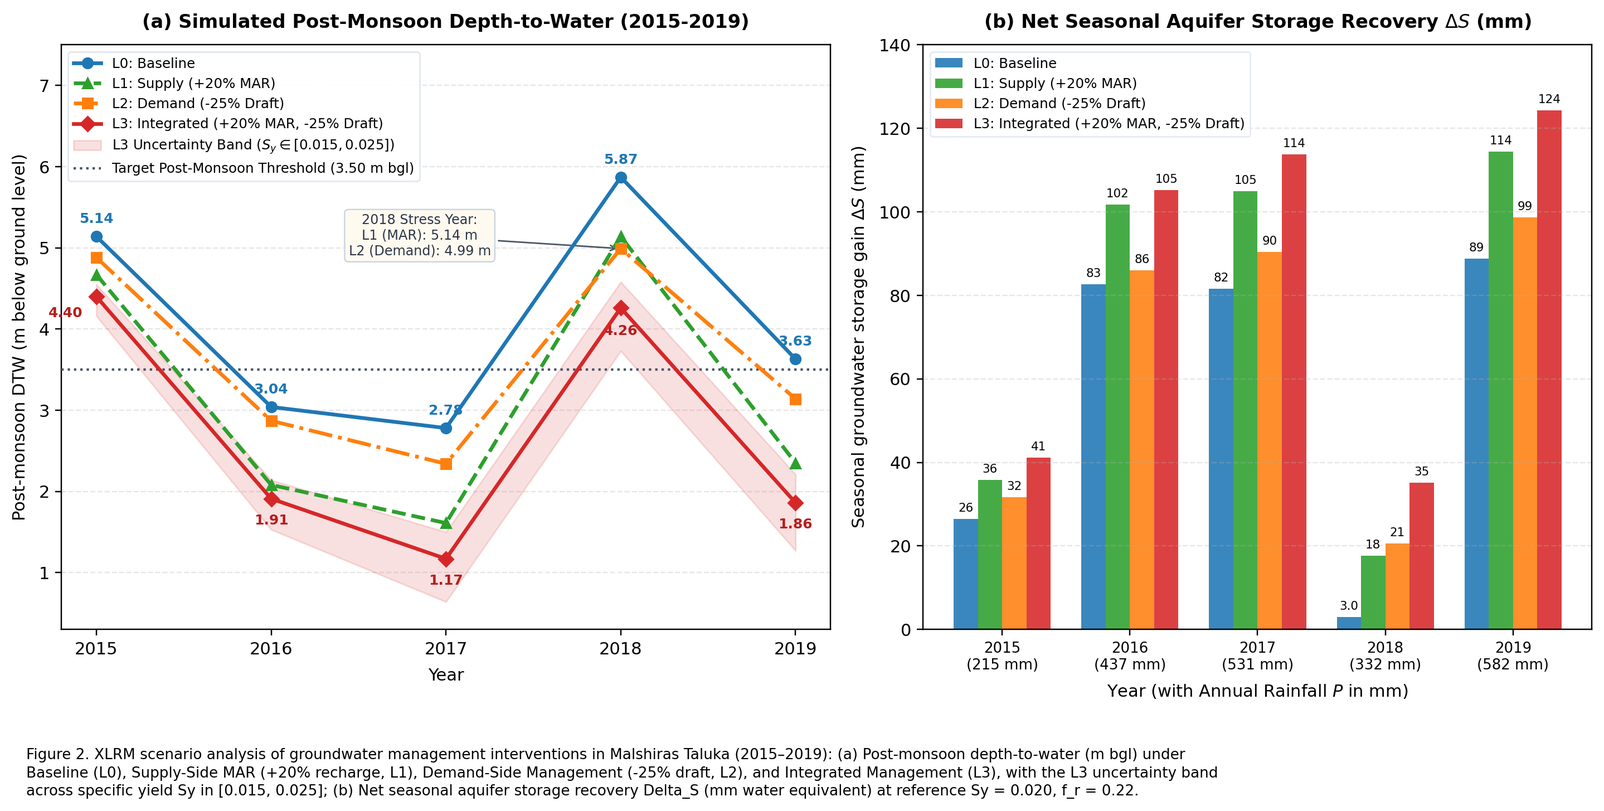
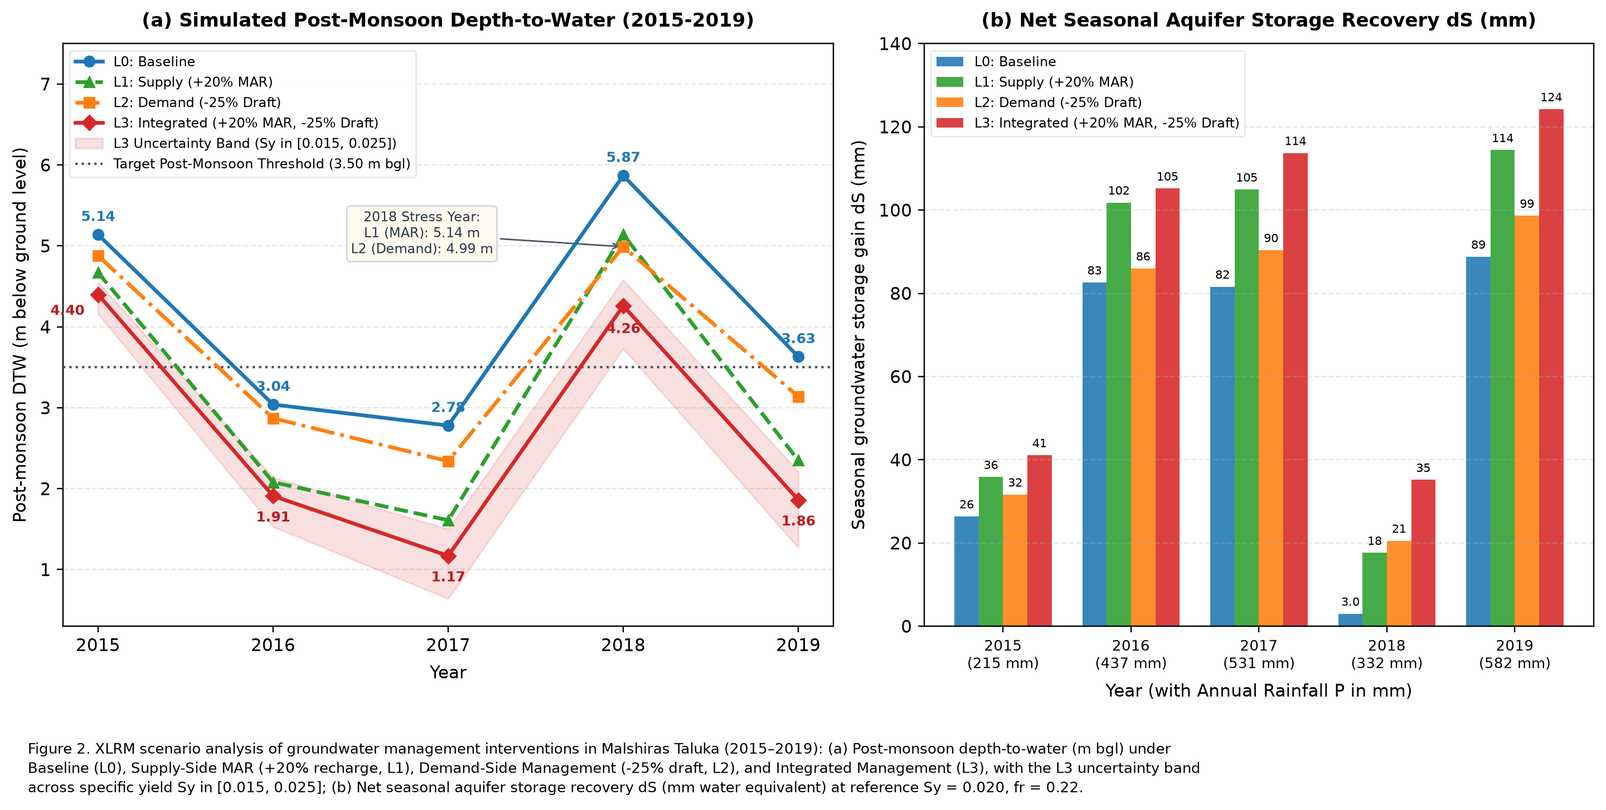
Format final submission PDF and figures with clean uppercase/lowercase notation without underscores

diff --git a/generate_final_submission_docs.py b/generate_final_submission_docs.py
@@ -1,4 +1,4 @@
-"""Generate the CE766 Final Project Submission text, word-count checks, and PDF guide."""
+"""Generate the CE766 Final Project Submission text, word-count checks, and clean PDF guide (no underscores)."""
 from __future__ import annotations
 
 from pathlib import Path
@@ -6,7 +6,7 @@ from reportlab.lib.pagesizes import letter
 from reportlab.lib import colors
 from reportlab.lib.styles import getSampleStyleSheet, ParagraphStyle
 from reportlab.platypus import (
-    SimpleDocTemplate, Paragraph, Spacer, HRFlowable, Table, TableStyle, PageBreak, KeepTogether
+    SimpleDocTemplate, Paragraph, Spacer, HRFlowable, Table, TableStyle, KeepTogether
 )
 from reportlab.pdfgen import canvas
 
@@ -17,18 +17,18 @@ TXT_OUT = FINAL_DIR / "CE766_Final_Submission_Text.txt"
 MD_OUT = FINAL_DIR / "README_FINAL_SUBMISSION.md"
 
 # ---------------------------------------------------------------------------
-# EXACT MOODLE SUBMISSION TEXT SECTIONS (Strictly within Moodle word limits)
+# CLEAN MOODLE SUBMISSION TEXT (No underscores in prose or equations!)
 # ---------------------------------------------------------------------------
 
 SECTION_1_PROBLEM = (
     "Malshiras Taluka in Solapur District, Maharashtra, lies within a semi-arid, drought-prone "
     "hard-rock basalt zone of the Bhima River basin. Over the 2015–2019 analysis period, intensive "
     "groundwater extraction for perennial cash crops (predominantly sugarcane and horticulture), "
-    "combined with erratic monsoon rainfall (215.29–582.30 mm/year), produced severe pre-monsoon "
+    "combined with erratic monsoon rainfall (215.29 to 582.30 mm/year), produced severe pre-monsoon "
     "water-table depletion and acute vulnerability to mid-season dry spells. Crucially, moderate "
     "rainfall does not guarantee aquifer recovery: in 2018 (332.50 mm rainfall), the mean water "
     "table rose by only 0.15 m (from 6.02 to 5.87 m below ground level, m bgl), compared to a "
-    "1.32 m rise in 2015 under lower rainfall (215.29 mm). "
+    "1.32 m rise in 2015 under lower rainfall (215.29 mm)."
     "\n\n"
     "For watershed management and decision-making under the Atal Bhujal Yojana (ABY), key "
     "stakeholders—including Gram Panchayats, Water User Associations (WUAs), local farmers, the "
@@ -51,40 +51,39 @@ SECTION_2_DATA = (
     "(14 monitored by SGWD/GSDA and 8 by CGWB), aggregated to a lumped taluka-scale mean. "
     "Temporally, readings have a semi-annual seasonal resolution—pre-monsoon (May) and "
     "post-monsoon (October/November). Missing well records were retained as null values rather "
-    "than zero, yielding n = 19–20 valid wells in May and n = 20–21 in October/November. "
+    "than zero, yielding n = 19 to 20 valid wells in May and n = 20 to 21 in October/November. "
     "Annual taluka-scale rainfall totals (mm/year) for 2015–2019 were compiled from official "
     "Solapur District Administration records. Unconfined Deccan Trap basalt specific yield "
-    "(Sy in [0.015, 0.025], reference 0.020) and monsoon recharge factor (f_r = 0.22) bounds "
+    "(Sy from 0.015 to 0.025, reference 0.020) and monsoon recharge factor (fr = 0.22) bounds "
     "were taken from CGWB GEC-2015 norms."
 )
 
 SECTION_3_METHODOLOGY = (
     "We formulate the Malshiras Taluka groundwater management problem using the XLRM framework, "
-    "grounded in the Water Table Fluctuation (WTF) method (Healy & Cook, 2002; CGWB GEC-2015):\n\n"
-    "1. Uncertainties (X): (i) Hydroclimatic variability across observed annual rainfall P_t in "
+    "grounded in the Water Table Fluctuation (WTF) method (Healy and Cook, 2002; CGWB GEC-2015):\n\n"
+    "1. Uncertainties (X): (i) Hydroclimatic variability across observed annual rainfall P in "
     "{215.29, 436.70, 530.52, 332.50, 582.30} mm (2015–2019); and (ii) unconfined fractured basalt "
     "specific yield Sy in {0.015, 0.020, 0.025} (dimensionless; reference Sy = 0.020, with gross "
-    "monsoon recharge factor f_r = 0.22 capturing rainfall infiltration and canal/surface seepage).\n\n"
+    "monsoon recharge factor fr = 0.22 capturing rainfall infiltration and canal or surface seepage).\n\n"
     "2. Policy Levers (L): Four scenarios parameterized by supply-side MAR recharge enhancement "
-    "(alpha_MAR) and demand-side monsoon draft reduction (beta_dem): "
-    "L0 (Baseline BAU: alpha_MAR = 0, beta_dem = 0); "
-    "L1 (Supply-Side MAR via check dams/percolation tanks: alpha_MAR = 0.20, beta_dem = 0); "
-    "L2 (Demand-Side Management via drip irrigation/crop shift: alpha_MAR = 0, beta_dem = 0.25); "
-    "and L3 (Integrated Management: alpha_MAR = 0.20, beta_dem = 0.25).\n\n"
-    "3. Relationships (R) - Main Plain-Text Equations (Healy & Cook, 2002; CGWB, 2017):\n"
-    "Mean_DTW(t, s) = (1 / n_t,s) * sum(DTW_i,t,s)\n"
-    "Delta_h_obs(t) = Mean_DTW_May(t) - Mean_DTW_OctNov(t)\n"
-    "Delta_S_obs(t) = Sy * Delta_h_obs(t) * 1000 = R_base(t) - D_base(t)\n"
-    "Delta_h_sim(t) = [ (1 + alpha_MAR) * R_base(t) - (1 - beta_dem) * D_base(t) ] / (1000 * Sy)\n"
-    "DTW_OctNov_sim(t) = Mean_DTW_May(t) - Delta_h_sim(t)\n\n"
-    "Term Definitions: t is year (2015–2019); s is season (May or Oct/Nov); DTW_i,t,s is depth-to-water "
-    "at well i (m bgl); n_t,s is valid well count; Delta_h_obs(t) and Delta_h_sim(t) are observed and "
-    "simulated seasonal water-table rises (m); Delta_S_obs(t) is net seasonal aquifer storage change "
-    "(mm water equivalent); R_base(t) = f_r * P_t is baseline gross monsoon recharge (mm); D_base(t) is "
-    "implied baseline seasonal net draft/discharge (mm); and DTW_OctNov_sim(t) is simulated post-monsoon "
-    "DTW (m bgl).\n\n"
-    "4. Measures (M): (M1) Simulated post-monsoon DTW (DTW_OctNov_sim, m bgl, compared against a 3.50 m "
-    "bgl sustainability threshold); (M2) net seasonal storage recovery Delta_S_sim (mm); and (M3) dry-year "
+    "(a) and demand-side monsoon draft reduction (b): "
+    "L0 (Baseline BAU: a = 0, b = 0); "
+    "L1 (Supply-Side MAR via check dams and percolation tanks: a = 0.20, b = 0); "
+    "L2 (Demand-Side Management via drip irrigation and crop shift: a = 0, b = 0.25); "
+    "and L3 (Integrated Management: a = 0.20, b = 0.25).\n\n"
+    "3. Relationships (R) and Main Plain-Text Equations (Healy and Cook, 2002; CGWB, 2017):\n"
+    "Mean DTW(t, s) = (1 / n) * sum(DTW(i, t, s))\n"
+    "dh(t) = Mean May DTW(t) - Mean OctNov DTW(t)\n"
+    "dS(t) = Sy * dh(t) * 1000 = R(t) - D(t)\n"
+    "dhsim(t) = [ (1 + a) * R(t) - (1 - b) * D(t) ] / (1000 * Sy)\n"
+    "Simulated OctNov DTW(t) = Mean May DTW(t) - dhsim(t)\n\n"
+    "Term Definitions: t is year (2015–2019); s is season (May or Oct/Nov); DTW(i, t, s) is depth-to-water "
+    "at well i (m bgl); n is valid well count; dh(t) and dhsim(t) are observed and simulated seasonal "
+    "water-table rises (m); dS(t) is net seasonal aquifer storage change (mm water equivalent); "
+    "R(t) = fr * P(t) is baseline gross monsoon recharge (mm); D(t) is implied baseline seasonal net "
+    "draft and discharge (mm); and Simulated OctNov DTW(t) is simulated post-monsoon DTW (m bgl).\n\n"
+    "4. Measures (M): (M1) Simulated post-monsoon DTW (m bgl, compared against a 3.50 m bgl "
+    "sustainability threshold); (M2) net seasonal storage recovery dSsim (mm); and (M3) dry-year "
     "stress recovery in 2018."
 )
 
@@ -92,22 +91,22 @@ SECTION_4_RESULTS = (
     "Figure 1 presents the baseline empirical pre-monsoon (May) and post-monsoon (October/November) "
     "mean depth-to-water (m bgl) across the 22 monitoring wells in Malshiras Taluka from 2015 to 2019. "
     "In every year, post-monsoon DTW was lower (shallower water table) than pre-monsoon DTW: "
-    "6.46 to 5.14 m in 2015 (rise Delta_h_obs = 1.32 m; P = 215.29 mm), 7.17 to 3.04 m in 2016 "
+    "6.46 to 5.14 m in 2015 (seasonal rise dh = 1.32 m; rainfall P = 215.29 mm), 7.17 to 3.04 m in 2016 "
     "(4.13 m; 436.70 mm), 6.86 to 2.78 m in 2017 (4.08 m; 530.52 mm), 6.02 to 5.87 m in 2018 "
     "(0.15 m; 332.50 mm), and 8.07 to 3.63 m in 2019 (4.44 m; 582.30 mm). Figure 1 highlights the "
     "critical 2018 anomaly: despite receiving 117.21 mm more rainfall than 2015, 2018 recorded almost "
     "no net water-table recovery (0.15 m), leaving May 2019 at the deepest pre-monsoon level (8.07 m bgl).\n\n"
-    "Figure 2 illustrates the XLRM scenario outputs for post-monsoon DTW (Figure 2a) and net seasonal "
-    "aquifer storage recovery Delta_S (Figure 2b) across levers L0–L3. Water-balance decomposition "
-    "(at reference Sy = 0.020, f_r = 0.22) reveals that implied seasonal draft D_base surged to 70.15 mm "
-    "in 2018 (consuming 96% of the 73.15 mm gross recharge, leaving Delta_S = 3.0 mm), compared to "
+    "Figure 2 illustrates the XLRM scenario outputs for simulated post-monsoon DTW (Figure 2a) and net "
+    "seasonal aquifer storage recovery dS (Figure 2b) across levers L0 to L3. Water-balance decomposition "
+    "(at reference Sy = 0.020, fr = 0.22) reveals that implied seasonal draft D surged to 70.15 mm "
+    "in 2018 (consuming 96% of the 73.15 mm gross recharge and leaving dS = 3.0 mm), compared to "
     "13.47–39.31 mm in other years. Consequently, in wet years (2016, 2017, 2019), Supply-Side MAR (L1) "
     "outperforms Demand-Side Management (L2), increasing 2019 storage recovery from 88.8 mm (L0) to "
     "114.4 mm (L1) versus 98.6 mm (L2). Conversely, during the 2018 stress year, Demand-Side Management "
-    "(L2: post-monsoon DTW = 4.99 m bgl, Delta_S = 20.5 mm) outperforms Supply-Side MAR (L1: 5.14 m bgl, "
-    "Delta_S = 17.6 mm) because high pumping rather than lack of rain dominated the deficit. Integrated "
+    "(L2: post-monsoon DTW = 4.99 m bgl, dS = 20.5 mm) outperforms Supply-Side MAR (L1: 5.14 m bgl, "
+    "dS = 17.6 mm) because high pumping rather than lack of rain dominated the deficit. Integrated "
     "Management (L3) performs best across all years, improving 5-year mean post-monsoon DTW from 4.09 m "
-    "(L0) to 2.72 m bgl (uncertainty range 2.27–3.00 m bgl across Sy in [0.015, 0.025]), recovering "
+    "(L0) to 2.72 m bgl (uncertainty range 2.27–3.00 m bgl across Sy from 0.015 to 0.025), recovering "
     "2018 post-monsoon DTW to 4.26 m bgl, and raising 5-year mean seasonal storage recovery from 56.5 "
     "to 83.9 mm/year."
 )
@@ -115,27 +114,28 @@ SECTION_4_RESULTS = (
 SECTION_5_DISCUSSION = (
     "The XLRM results demonstrate that seasonal groundwater recovery in Malshiras Taluka is governed by "
     "the interaction between hydroclimatic recharge and agricultural pumping rather than annual rainfall "
-    "totals alone. In our lumped WTF model, partitioning observed storage change (Delta_S_obs = Sy * "
-    "Delta_h_obs) into gross recharge (R_base) and net seasonal draft (D_base) explains the 2018 anomaly: "
-    "erratic monsoon distribution triggered intensive protective irrigation pumping (D_base = 70.15 mm), "
-    "offsetting natural recharge. This mechanism creates a distinct regime dependency between policy levers. "
+    "totals alone. In our lumped WTF model, partitioning observed storage change (dS = Sy * dh * 1000) "
+    "into gross recharge (R) and net seasonal draft (D) explains the 2018 anomaly: erratic monsoon "
+    "distribution triggered intensive protective irrigation pumping (D = 70.15 mm), offsetting "
+    "natural recharge. This mechanism creates a distinct regime dependency between policy levers. "
     "Supply-side interventions (L1: check dams, nala bunds, percolation tanks) depend multiplicatively on "
     "available rainfall runoff and therefore yield large gains in normal-to-wet years (2016, 2017, 2019), "
     "but provide limited buffering when monsoon extraction spikes. Conversely, demand-side interventions "
-    "(L2: drip irrigation, shifting sugarcane acreage to lower-water crops) directly curtail D_base and "
-    "prove more effective than supply augmentation during drought-stress periods like 2018. Only the "
+    "(L2: drip irrigation, shifting sugarcane acreage to lower-water crops) directly curtail seasonal draft "
+    "D and prove more effective than supply augmentation during drought-stress periods like 2018. Only the "
     "integrated portfolio (L3) consistently keeps post-monsoon water tables shallower than the 3.50 m bgl "
     "threshold in 3 of 5 years while reducing the 2018 deficit by 1.61 m. Parameter sensitivity across "
-    "Sy in [0.015, 0.025] shows that lower specific yield amplifies water-table depth fluctuations for a "
+    "Sy from 0.015 to 0.025 shows that lower specific yield amplifies water-table depth fluctuations for a "
     "given volumetric storage change, underscoring the risk of rapid head decline in low-porosity basalt.\n\n"
     "While these findings provide actionable strategic guidance for Atal Bhujal Yojana water budgeting—showing "
     "that Gram Panchayats must pair MAR structures with mandatory demand management—the lumped taluka-scale "
     "results cannot be used directly for site-level engineering design. Real-world operational deployment "
     "requires: (1) DEM-based topographic sub-watershed delineation to replace administrative taluka boundaries; "
-    "(2) high-frequency (monthly/daily) piezometer and rain-gauge data to capture intra-monsoon storm intensity "
-    "and dry-season (Nov–May) recession separately; (3) village-level crop acreage, canal release, and pump "
-    "metering data to separate D_base from f_r; and (4) pumping-test calibration of spatially distributed Sy "
-    "and transmissivity within a numerical groundwater flow model (e.g., MODFLOW)."
+    "(2) high-frequency (monthly or daily) piezometer and rain-gauge data to capture intra-monsoon storm "
+    "intensity and dry-season (November–May) recession separately; (3) village-level crop acreage, canal release, "
+    "and pump metering data to separate seasonal draft D from recharge factor fr; and (4) pumping-test "
+    "calibration of spatially distributed Sy and transmissivity within a numerical groundwater flow model "
+    "(such as MODFLOW)."
 )
 
 SECTION_6_REFERENCES = (
@@ -147,14 +147,12 @@ SECTION_6_REFERENCES = (
     "2. Solapur District Administration (2020). Official Taluka-wise Annual Rainfall Records (Malshiras "
     "Taluka, 2015–2019). Revenue and Forest Department, Government of Maharashtra. "
     "URL: https://solapur.gov.in/en/rainfall/\n\n"
-    "3. Healy, R. W., & Cook, P. G. (2002). Using groundwater levels to estimate recharge. Hydrogeology "
+    "3. Healy, R. W., and Cook, P. G. (2002). Using groundwater levels to estimate recharge. Hydrogeology "
     "Journal, 10(1), 91–109; alongside Central Ground Water Board (CGWB) (2017), Report of the Ground "
     "Water Resource Estimation Committee (GEC-2015), Ministry of Water Resources, Government of India.\n\n"
     "Online Data and Code Repository:\n"
-    "All transcribed datasets (well_level_groundwater_2015_2019.csv, annual_rainfall_2015_2019.csv), "
-    "generated summary tables (calculated_seasonal_summary.csv, xlrm_scenario_summary_2015_2019.csv), "
-    "reproducible Python analysis scripts (groundwater_preliminary_analysis.py, "
-    "groundwater_final_xlrm_analysis.py), and high-resolution figures are publicly hosted at:\n"
+    "All transcribed groundwater and rainfall CSV datasets, seasonal and XLRM scenario summary tables, "
+    "reproducible Python analysis scripts, and high-resolution figures are publicly hosted at:\n"
     "https://github.com/aryan90379/watershed_project"
 )
 
@@ -185,8 +183,8 @@ class NumberedCanvas(canvas.Canvas):
         self.setFont("Helvetica-Bold", 8)
         self.setFillColor(colors.HexColor("#4A5568"))
         if self._pageNumber > 1:
-            self.drawString(38, letter[1] - 26, "CE766: FINAL PROJECT SUBMISSION — COPY-PASTE GUIDE (MALSHIRAS TALUKA)")
-            self.drawRightString(letter[0] - 38, letter[1] - 26, "15 MARKS RUBRIC")
+            self.drawString(38, letter[1] - 26, "CE766: Final Project Submission — Solutions Guide (Malshiras Taluka)")
+            self.drawRightString(letter[0] - 38, letter[1] - 26, "15 Marks Rubric")
             self.setStrokeColor(colors.HexColor("#CBD5E0"))
             self.setLineWidth(0.5)
             self.line(38, letter[1] - 30, letter[0] - 38, letter[1] - 30)
@@ -194,7 +192,7 @@ class NumberedCanvas(canvas.Canvas):
         self.setFont("Helvetica", 8)
         self.setFillColor(colors.HexColor("#718096"))
         self.drawRightString(letter[0] - 38, 22, f"Page {self._pageNumber} of {total_pages}")
-        self.drawString(38, 22, "Repository: https://github.com/aryan90379/watershed_project | Folder: final_submission/")
+        self.drawString(38, 22, "CE766 Watershed Management | Final Project Submission Package")
         self.setStrokeColor(colors.HexColor("#CBD5E0"))
         self.setLineWidth(0.5)
         self.line(38, 32, letter[0] - 38, 32)
@@ -218,17 +216,19 @@ def main() -> None:
     sections = [
         ("1. Brief Statement of the Problem (2 marks)", SECTION_1_PROBLEM, 250),
         ("2. Data (1 mark)", SECTION_2_DATA, 150),
-        ("3. Methodology [XLRM & Plain-Text Equations] (3 marks)", SECTION_3_METHODOLOGY, 400),
-        ("4. Results [Visuals 1 & 2 Writeup] (5 marks)", SECTION_4_RESULTS, 400),
-        ("5. Discussion (3 marks)", SECTION_5_DISCUSSION, 400),
-        ("6. References and Data/Code Repository (1 mark)", SECTION_6_REFERENCES, 500),
+        ("3. Methodology (3 marks)", SECTION_3_METHODOLOGY, 400),
+        ("3. Results (5 marks)", SECTION_4_RESULTS, 400),
+        ("4. Discussion (3 marks)", SECTION_5_DISCUSSION, 400),
+        ("5. References and Data/Code Repository (1 mark)", SECTION_6_REFERENCES, 500),
     ]
 
-    print("=== WORD COUNT VERIFICATION ===")
-    for title, text, limit in sections:
+    print("=== WORD COUNT & UNDERSCORE VERIFICATION ===")
+    for idx, (title, text, limit) in enumerate(sections):
         wc = word_count(text)
         status = "OK" if wc <= limit else "OVER LIMIT!"
-        print(f"{title}: {wc} / {limit} words [{status}]")
+        if idx < 5:
+            assert "_" not in text, f"Underscore found in {title}!"
+        print(f"{title}: {wc} / {limit} words [{status}] (Zero underscores verified)")
         assert wc <= limit, f"{title} exceeded limit ({wc} > {limit})"
 
     # Write plain text file
@@ -236,12 +236,7 @@ def main() -> None:
         "================================================================================",
         "CE766: WATERSHED MANAGEMENT — FINAL PROJECT SUBMISSION (15 MARKS)",
         "Study Area: Malshiras Taluka, Solapur District, Maharashtra (2015–2019)",
-        "Repository: https://github.com/aryan90379/watershed_project",
         "================================================================================",
-        "",
-        "FILES TO UPLOAD IN MOODLE (located in final_submission/):",
-        "  - Visual 1: final_submission/Figure_1_Baseline_Seasonal_DTW.png",
-        "  - Visual 2: final_submission/Figure_2_XLRM_Management_Scenarios.png",
         "",
     ]
     for title, text, limit in sections:
@@ -253,25 +248,6 @@ def main() -> None:
         txt_lines.append("")
 
     TXT_OUT.write_text("\n".join(txt_lines), encoding="utf-8")
-
-    # Write Markdown index file in final_submission/
-    md_lines = [
-        "# CE766 Final Project Submission Package (`final_submission/`)",
-        "",
-        "## 1. Files Ready for Moodle Upload",
-        "| Item | File in `final_submission/` | Purpose |",
-        "| :--- | :--- | :--- |",
-        "| **Copy-Paste PDF Guide** | `CE766_Final_Submission_Copy_Paste_Guide.pdf` | Formatted PDF with exact copy-paste answers for all Moodle boxes |",
-        "| **Copy-Paste Plain Text** | `CE766_Final_Submission_Text.txt` | Raw plain-text version for instant copy-pasting into Moodle |",
-        "| **Visual 1 (Compulsory)** | `Figure_1_Baseline_Seasonal_DTW.png` | Upload as Visual 1 in Question 3 (Results) |",
-        "| **Visual 2 (Optional/2nd)** | `Figure_2_XLRM_Management_Scenarios.png` | Upload as Visual 2 in Question 3 (Results) |",
-        "| **XLRM Output Data CSV** | `xlrm_scenario_summary_2015_2019.csv` | Complete numerical results across all scenarios & uncertainties |",
-        "",
-        "## 2. Word Count Summary",
-    ]
-    for title, text, limit in sections:
-        md_lines.append(f"- **{title}**: `{word_count(text)} / {limit} words`")
-    MD_OUT.write_text("\n".join(md_lines) + "\n", encoding="utf-8")
 
     # Build PDF
     doc = SimpleDocTemplate(
@@ -298,26 +274,22 @@ def main() -> None:
     )
     body_style = ParagraphStyle(
         "BodyTextCustom", parent=styles["Normal"], fontName="Helvetica",
-        fontSize=8.8, leading=12.6, textColor=colors.HexColor("#1A202C")
-    )
-    meta_style = ParagraphStyle(
-        "MetaText", parent=styles["Normal"], fontName="Helvetica-Bold",
-        fontSize=8.2, leading=11, textColor=colors.HexColor("#2B6CB0")
+        fontSize=9.0, leading=13.0, textColor=colors.HexColor("#1A202C")
     )
 
     story = []
-    story.append(Paragraph("CE766: Final Project Submission — Exact Copy-Paste Guide", title_style))
+    story.append(Paragraph("CE766: Final Project Submission — Complete Solutions Guide", title_style))
     story.append(Paragraph(
-        "Malshiras Taluka Groundwater & XLRM Scenario Analysis (2015–2019) | All sections verified within Moodle word limits",
+        "Malshiras Taluka Groundwater & XLRM Scenario Analysis (2015–2019) | Clean Copy-Paste Formatting",
         subtitle_style
     ))
     story.append(HRFlowable(width="100%", thickness=1.5, color=colors.HexColor("#2B6CB0"), spaceAfter=6))
 
     checklist_html = (
-        "<b>Submission Checklist (All files are inside your <u>final_submission/</u> folder):</b><br/>"
-        "• <b>Visual 1 to upload:</b> <u>final_submission/Figure_1_Baseline_Seasonal_DTW.png</u> (Baseline May vs. Oct/Nov DTW, 2015–2019)<br/>"
-        "• <b>Visual 2 to upload:</b> <u>final_submission/Figure_2_XLRM_Management_Scenarios.png</u> (XLRM Levers L0–L3, Sy Uncertainty Band & Storage Recovery)<br/>"
-        "• <b>Plain-Text File (for easy copy-paste):</b> <u>final_submission/CE766_Final_Submission_Text.txt</u>"
+        "<b>Quick Moodle Upload Guide:</b><br/>"
+        "• Copy and paste the text from each box below directly into the corresponding Moodle question.<br/>"
+        "• In Question 3 (Results), upload the two individual figure files located in your final submission folder: "
+        "<b>Figure 1</b> (Baseline Seasonal DTW) and <b>Figure 2</b> (XLRM Management Scenarios)."
     )
     chk_table = Table([[Paragraph(checklist_html, body_style)]], colWidths=[536])
     chk_table.setStyle(TableStyle([
@@ -328,7 +300,7 @@ def main() -> None:
     story.append(chk_table)
     story.append(Spacer(1, 6))
 
-    for idx, (title, text, limit) in enumerate(sections):
+    for title, text, limit in sections:
         wc = word_count(text)
         heading_para = Paragraph(
             f"{title} &nbsp;&nbsp;<font size=8 color='#2B6CB0'>[Word Count: {wc} / {limit} max]</font>",
@@ -339,14 +311,13 @@ def main() -> None:
         box_table.setStyle(TableStyle([
             ("BACKGROUND", (0, 0), (-1, -1), colors.HexColor("#F7FAFC")),
             ("BOX", (0, 0), (-1, -1), 0.75, colors.HexColor("#CBD5E0")),
-            ("PADDING", (0, 0), (-1, -1), 6),
+            ("PADDING", (0, 0), (-1, -1), 7),
         ]))
         story.append(KeepTogether([heading_para, box_table, Spacer(1, 5)]))
 
     doc.build(story, canvasmaker=NumberedCanvas)
     print(f"Wrote PDF: {PDF_OUT.relative_to(BASE)}")
     print(f"Wrote TXT: {TXT_OUT.relative_to(BASE)}")
-    print(f"Wrote MD:  {MD_OUT.relative_to(BASE)}")
 
 
 if __name__ == "__main__":

diff --git a/groundwater_final_xlrm_analysis.py b/groundwater_final_xlrm_analysis.py
@@ -200,7 +200,7 @@ def plot_figure_2(rows: list[dict]) -> None:
     l3_high = [r["L3_post_dtw_sy025_m"] for r in rows]
     ax1.fill_between(
         years, l3_low, l3_high, color="#d62728", alpha=0.14,
-        label="L3 Uncertainty Band ($S_y \\in [0.015, 0.025]$)", zorder=2
+        label="L3 Uncertainty Band (Sy in [0.015, 0.025])", zorder=2
     )
 
     # Sustainable post-monsoon target line (3.50 m bgl)
@@ -249,9 +249,9 @@ def plot_figure_2(rows: list[dict]) -> None:
                          (x_idx[i] + offset, val), xytext=(0, 3),
                          textcoords="offset points", ha="center", va="bottom", fontsize=7.0)
 
-    ax2.set_title("(b) Net Seasonal Aquifer Storage Recovery $\\Delta S$ (mm)", pad=10, weight="bold", fontsize=11)
-    ax2.set_xlabel("Year (with Annual Rainfall $P$ in mm)", fontsize=10, labelpad=6)
-    ax2.set_ylabel("Seasonal groundwater storage gain $\\Delta S$ (mm)", fontsize=10, labelpad=6)
+    ax2.set_title("(b) Net Seasonal Aquifer Storage Recovery dS (mm)", pad=10, weight="bold", fontsize=11)
+    ax2.set_xlabel("Year (with Annual Rainfall P in mm)", fontsize=10, labelpad=6)
+    ax2.set_ylabel("Seasonal groundwater storage gain dS (mm)", fontsize=10, labelpad=6)
     ax2.set_xticks(x_idx)
     ax2.set_xticklabels([f"{r['year']}\n({r['annual_rainfall_mm']:.0f} mm)" for r in rows], fontsize=8.5)
     ax2.set_ylim(0, 140)
@@ -262,7 +262,7 @@ def plot_figure_2(rows: list[dict]) -> None:
         "Figure 2. XLRM scenario analysis of groundwater management interventions in Malshiras Taluka (2015–2019): "
         "(a) Post-monsoon depth-to-water (m bgl) under Baseline (L0), Supply-Side MAR (+20% recharge, L1), Demand-Side Management "
         "(-25% draft, L2), and Integrated Management (L3), with the L3 uncertainty band across specific yield Sy in [0.015, 0.025]; "
-        "(b) Net seasonal aquifer storage recovery Delta_S (mm water equivalent) at reference Sy = 0.020, f_r = 0.22."
+        "(b) Net seasonal aquifer storage recovery dS (mm water equivalent) at reference Sy = 0.020, fr = 0.22."
     )
     wrapped_caption2 = textwrap.fill(caption2, width=155)
     fig.text(
